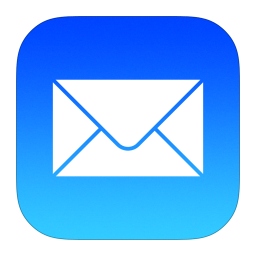
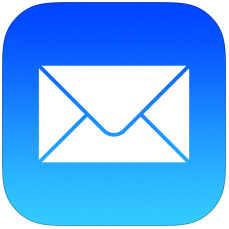
added contacts

Changed region(s): [[0.0, 0.0, 1.0, 1.0], [0.1528, 0.2751, 0.8559, 0.7336]]

diff --git a/README.md b/README.md
@@ -45,7 +45,7 @@
 
 <div style="display: flex; align-items: center; gap: 12px;"> 
   <a href="https://www.linkedin.com/in/vgoncharoff/" target="_blank"><img src="./assets/linkedin.png" target="_blank" height="50"></a> 
-  <a href = "mailto:letodart2077@gmail.com"><img src="./assets/mailto.png" height="56" target="_blank"></a>
+  <a href = "mailto:letodart2077@gmail.com"><img src="./assets/mailto.png" height="50" target="_blank"></a>
   <a href="https://t.me/LetoDArt" target="_blank"><img src="./assets/telegram.png" height="50" target="_blank"></a>
 
 [//]: # (  <a href="https://www.instagram.com/8_leto_8/" target="_blank"><img src="./assets/insta.png" height="50" target="_blank"></a>)
